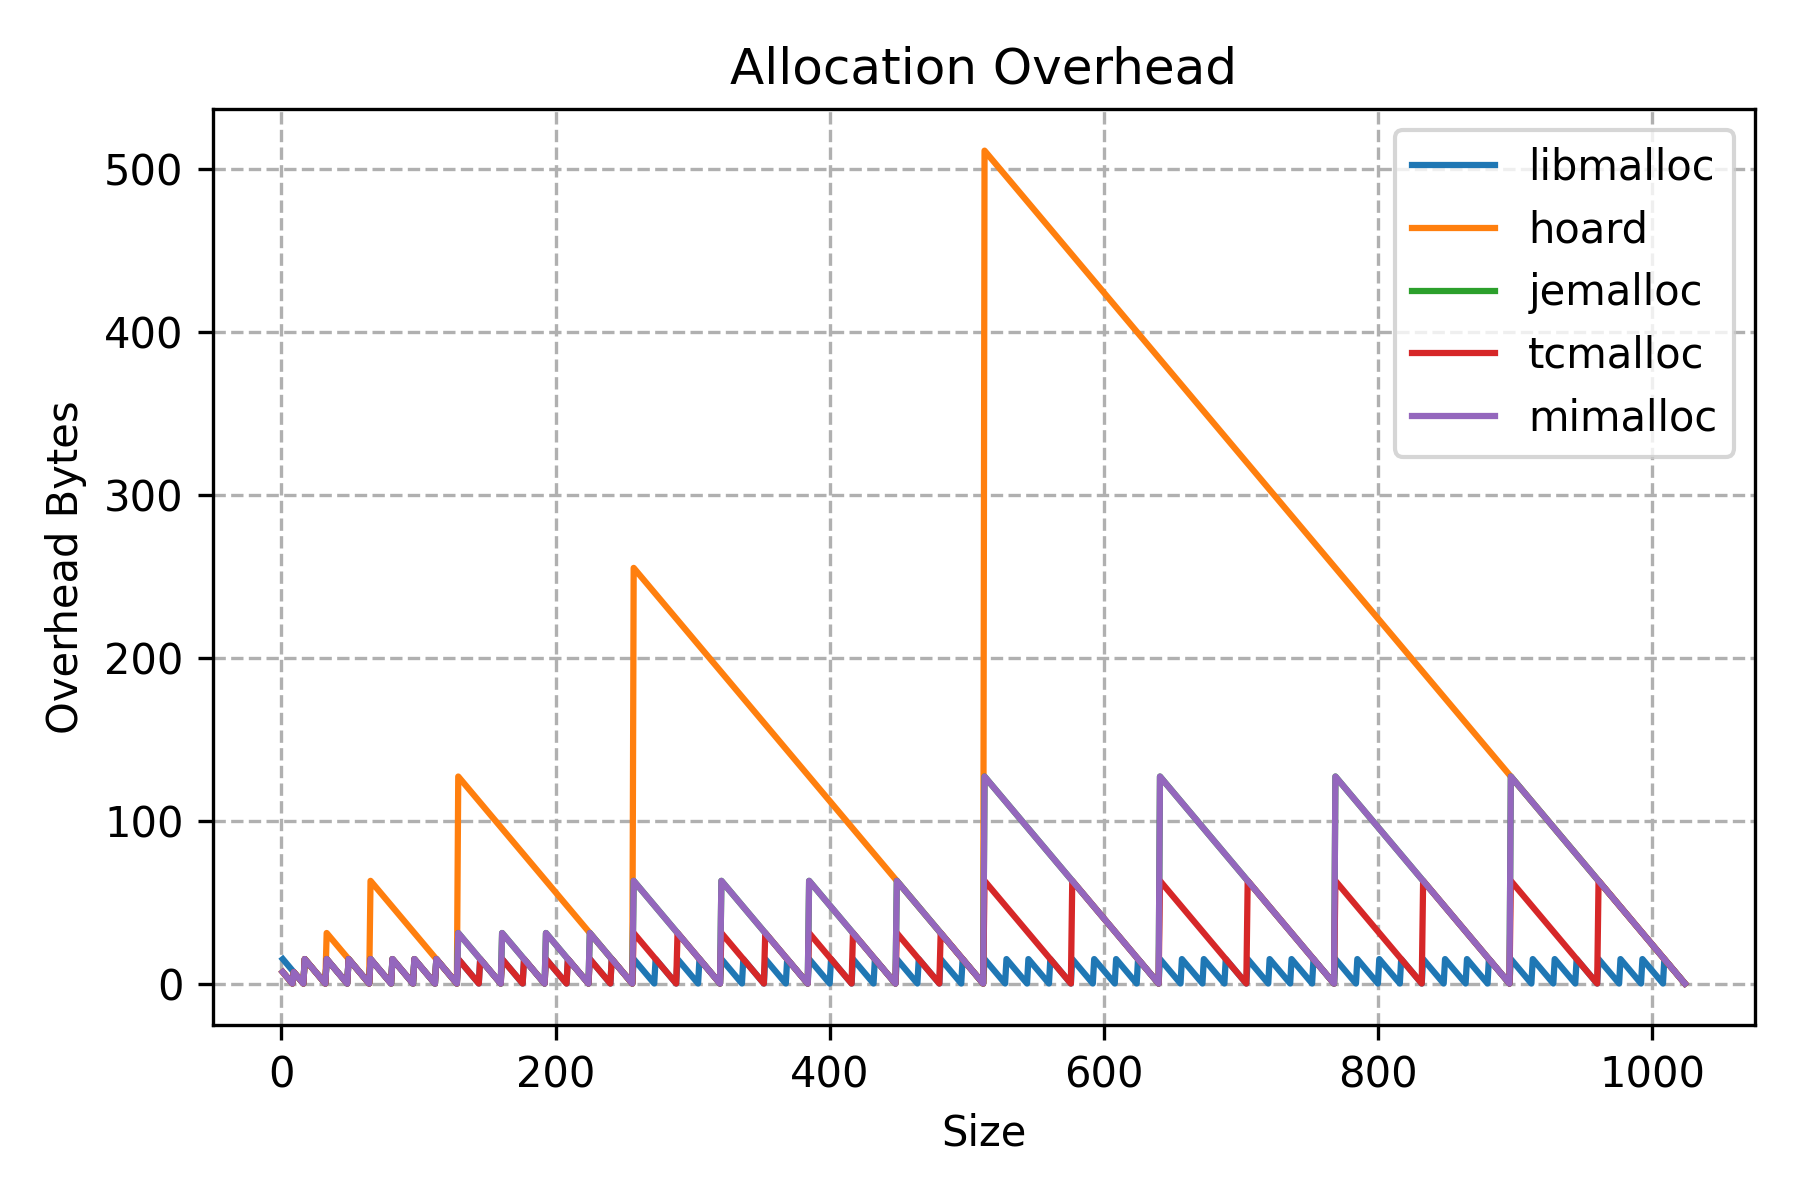
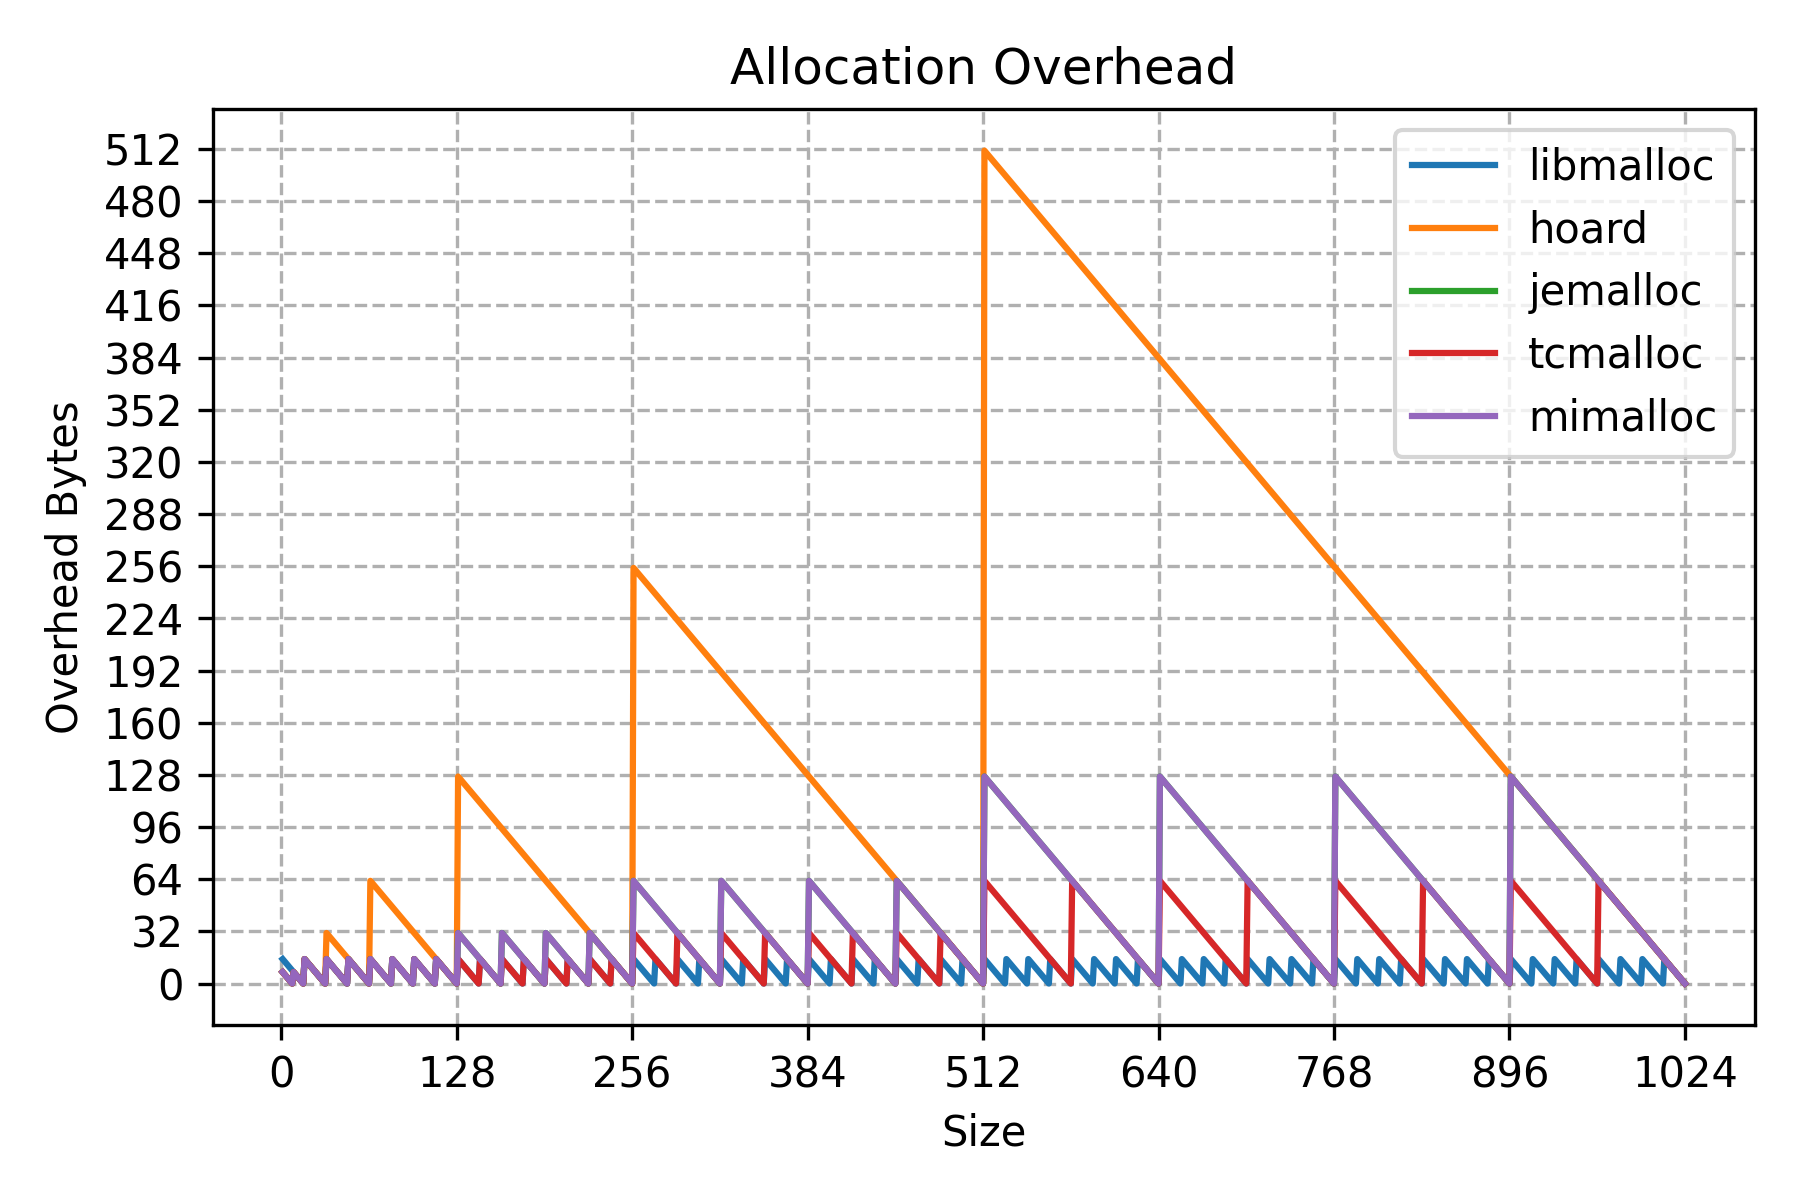
allocation overhead plot

diff --git a/benchmark_analysis.py b/benchmark_analysis.py
@@ -94,14 +94,19 @@ def plot_data(plot_title, series_grouping, x_label, y_label, facet_group=None, p
         ax.set_ylabel(y_label_final)
         if xscale == "log":
             ax.set_xscale('log', base=2)
+        if y_label == "overhead_bytes":
+            ax.set_yticks(np.linspace(0, 512, 17))
 
-        all_grouped_values = [size for points in grouped_data.values() for size, _ in points]
-        if all_grouped_values and xscale == "log":
-            min_size = min(all_grouped_values)
-            max_size = max(all_grouped_values)
-            min_exp = int(np.floor(np.log2(min_size)))
-            max_exp = int(np.ceil(np.log2(max_size)))
-            ticks = 2 ** np.arange(min_exp, max_exp + 1)
+        all_x_values = [x for points in grouped_data.values() for x, _ in points]
+        if all_x_values:
+            min_x = min(all_x_values)
+            max_x = max(all_x_values)
+            min_exp = int(np.floor(np.log2(min_x)))
+            max_exp = int(np.ceil(np.log2(max_x)))
+            if xscale == "log":
+                ticks = 2 ** np.arange(min_exp, max_exp + 1)
+            else:
+                ticks =  np.linspace(2 ** min_exp - 1, 2 ** max_exp, 9)
             ax.set_xticks(ticks)
 
         ax.legend()
